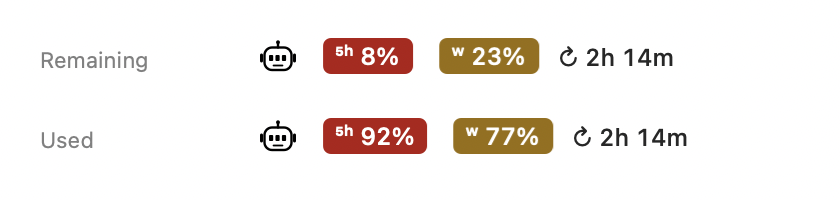
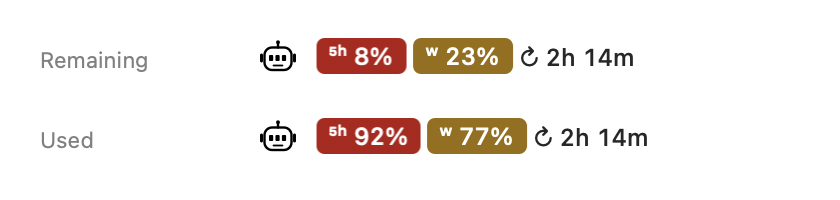
Tighten spacing between colored tray segments

Changed region(s): [[0.3714, 0.57, 0.8357, 0.78], [0.3714, 0.18, 0.8048, 0.39]]

diff --git a/Sources/CliProxyQuota/MenuBarAppearance.swift b/Sources/CliProxyQuota/MenuBarAppearance.swift
@@ -29,7 +29,7 @@ enum MenuBarAppearance {
                       includeSource: Bool = false, coloredWarnings: Bool = true, showResetCountdown: Bool = true) -> NSAttributedString {
         let font = NSFont.monospacedDigitSystemFont(ofSize: 12, weight: .medium)
         let normal: [NSAttributedString.Key: Any] = [.font: font, .foregroundColor: NSColor.labelColor]
-        let separator = coloredWarnings ? "  " : " · "
+        let separator = coloredWarnings ? " " : " · "
         let text = NSMutableAttributedString(string: " ", attributes: normal)
         if includeSource { text.append(NSAttributedString(string: readout.title + " ", attributes: normal)) }
         func append(_ remaining: Double?, label: String = "") {
@@ -38,7 +38,6 @@ enum MenuBarAppearance {
             guard coloredWarnings && severity != .normal else {
                 text.append(NSAttributedString(string: value, attributes: normal)); return
             }
-            text.append(NSAttributedString(string: " ", attributes: normal))
             let attachment = NSTextAttachment()
             attachment.image = image(text: value, severity: severity)
             attachment.bounds = NSRect(x: 0, y: -4, width: attachment.image!.size.width, height: 18)
@@ -46,7 +45,6 @@ enum MenuBarAppearance {
             badge.addAttributes([badgeText: value, badgeBackground: severity == .warning ? warningBackground : criticalBackground],
                                 range: NSRange(location: 0, length: badge.length))
             text.append(badge)
-            text.append(NSAttributedString(string: " ", attributes: normal))
         }
         switch window {
         case .fiveHour: append(readout.fiveHour)

diff --git a/README.md b/README.md
@@ -23,7 +23,7 @@ A small, native macOS app for [CLIProxyAPI](https://github.com/router-for-me/CLI
 - **Remaining or Used**: one preference updates percentages and bars in both quota views and the menu bar.
 - **5-hour, Weekly, or Both** in the menu bar. Single limits show `72%`; Both shows `⁵ʰ 72% · ʷ 84%`.
 - **Weekly-aware tray quota**: each account contributes the lower of its 5-hour and weekly remaining percentages to the tray’s 5-hour average. A weekly-exhausted account contributes 0%, even if its 5-hour window is full.
-- **Tray warning badges**: each percentage and its window label use white text on a rounded dark yellow/gold background above 10% through 25% remaining and a red background at or below 10%. Colors always reflect remaining capacity, including in Used mode. **Color warnings** in Tray Display is on by default; switch it off for plain tray text. Colored mode separates segments with spacing; plain mode uses dots. The separate **Reset countdown** switch is also on by default and works independently of colors and warning thresholds.
+- **Tray warning badges**: each percentage and its window label use white text on a rounded dark yellow/gold background above 10% through 25% remaining and a red background at or below 10%. Colors always reflect remaining capacity, including in Used mode. **Color warnings** in Tray Display is on by default; switch it off for plain tray text. Colored mode separates segments with compact badge padding; plain mode uses dots. The separate **Reset countdown** switch is also on by default and works independently of colors and warning thresholds.
 - **Checkbox source menu**: select provider averages or individual accounts. Each selected source gets its own menu bar item; clear all selections for icon-only mode.
 - **Provider-wide usage forecast**: one sentence in All accounts estimates whether the combined allowance lasts until reset. Enable or disable it under General and choose a 30-, 60-, or 120-minute averaging period.
 - **Automatic refresh** every 1, 2, 5, or 10 minutes, plus manual refresh.
